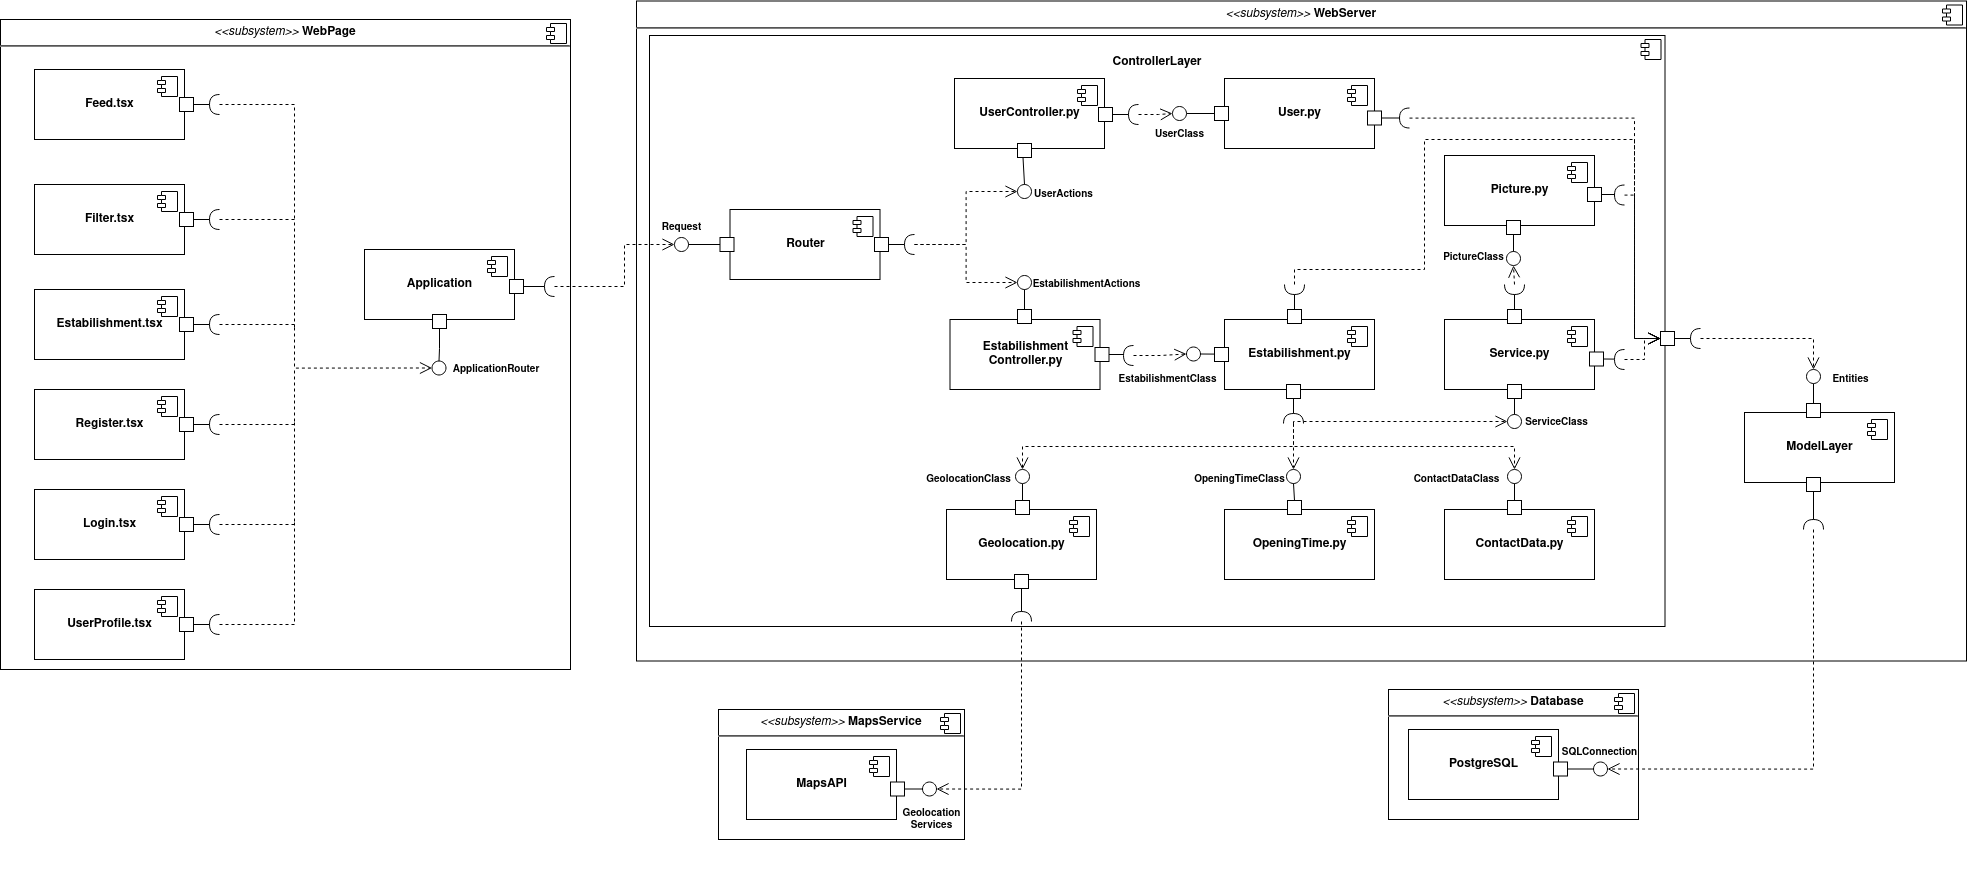
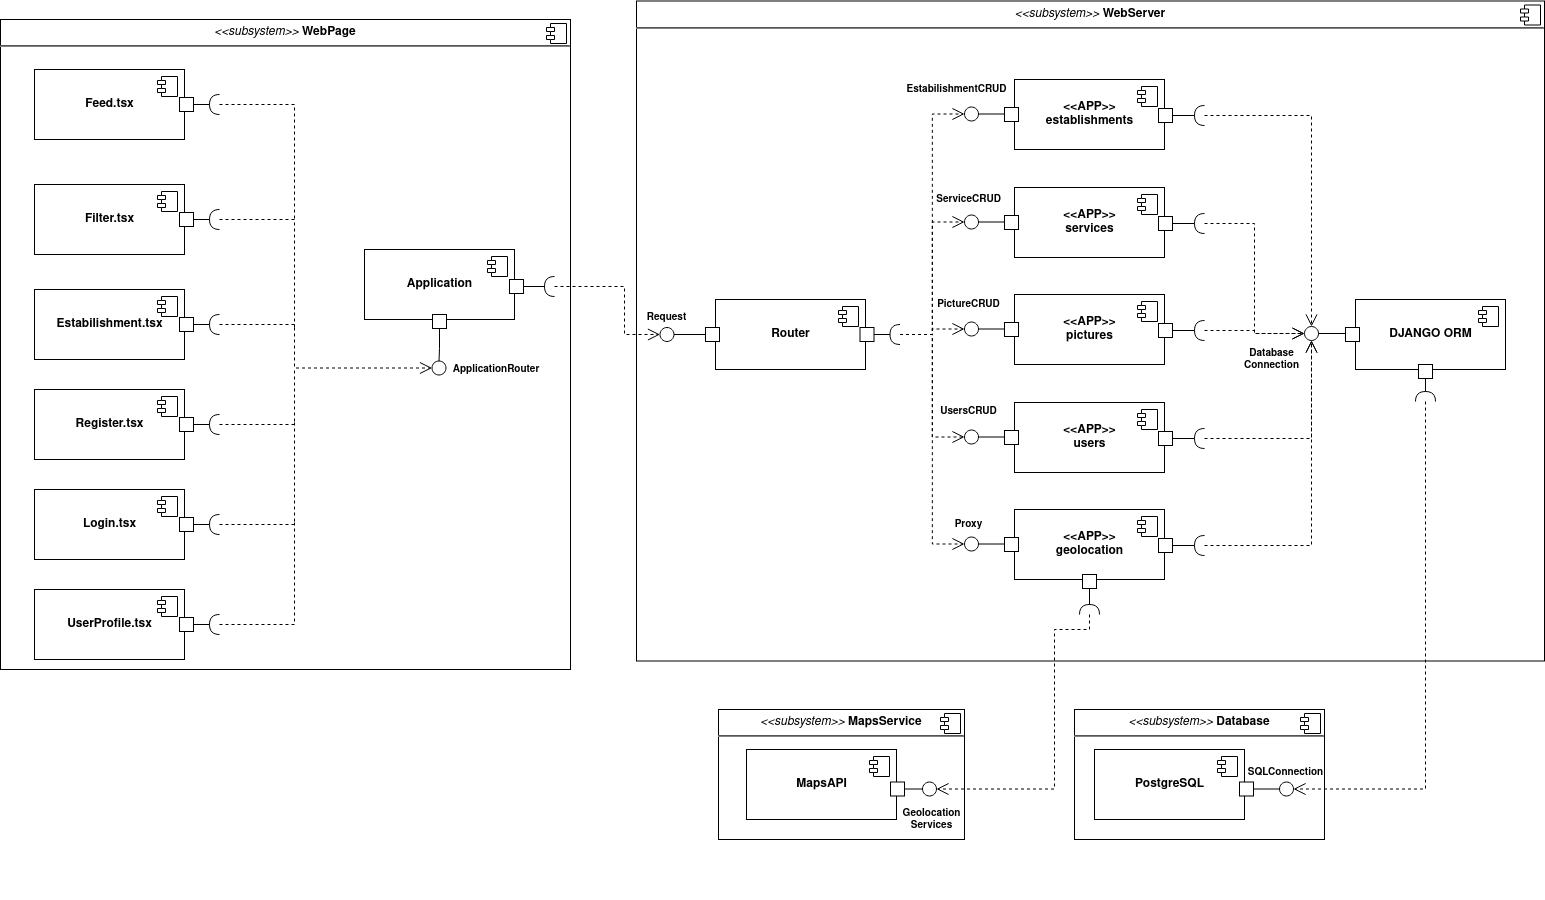
corrigindo visao de implementaçao

diff --git a/docs/Arquitetura/das.md b/docs/Arquitetura/das.md
@@ -188,6 +188,10 @@ As versões anteriores do diagrama abaixo podem ser visualizadas em [Modelagem](
 
 ![Diagrama de Componentes v4](img/Diagrama_componentes_v4.png)
 
+Os componentes com a anotação <\<APP\>> têm estruturas semelhantes. O diagrama abaixo representa a aplicação de estabelecimentos:
+
+![Componente app Establishment](img/Componente-establishment.png)
+
 ## 9. Visão de Dados (Opcional)
 
 Assumindo uma que cada estabelecimento envolverá uma seleção de imagens mais 
@@ -283,3 +287,4 @@ A arquitetura descrita neste documento contribui com as seguintes característic
 | 28/04/21 | Hugo Aragão | Adição dos diagramas de Sequência | 1.7 |
 | 28/04/21 | Hugo Aragão | Adição das descrições e definições dos diagramas de sequência | 1.8 |
 | 30/04/21 | João Luis Baraky | Corrige erros de ortografia | 1.9 |
+| 03/04/21 | Wagner Martins | Correção na visão de implementação | 2.0 |
